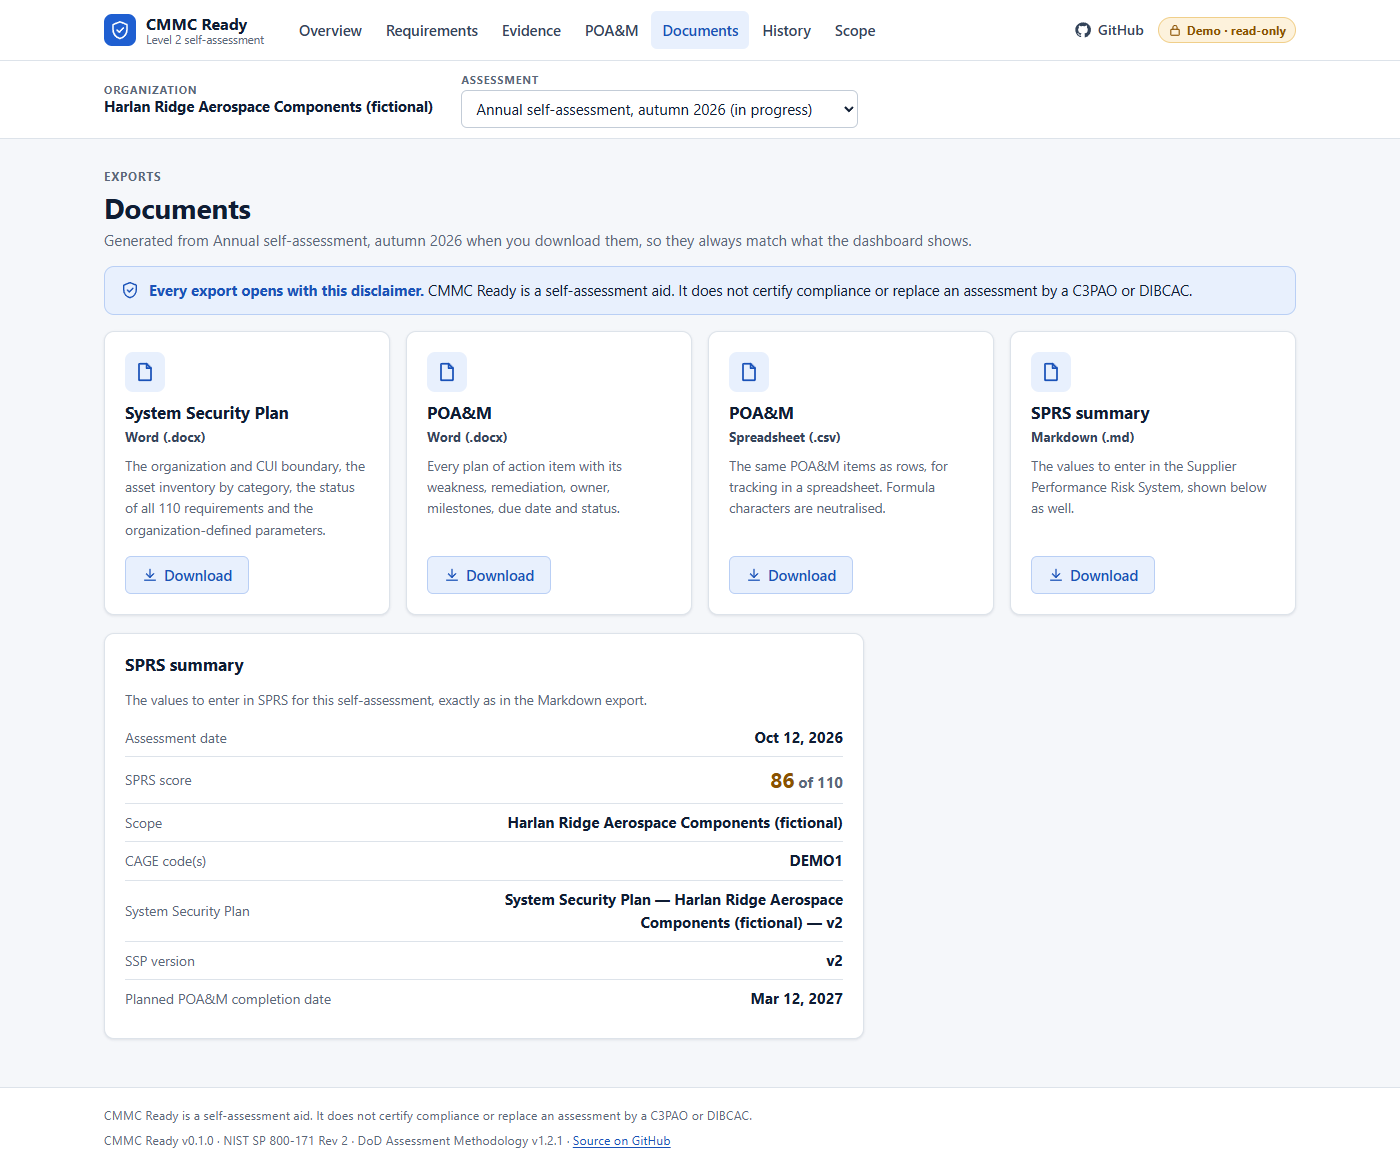
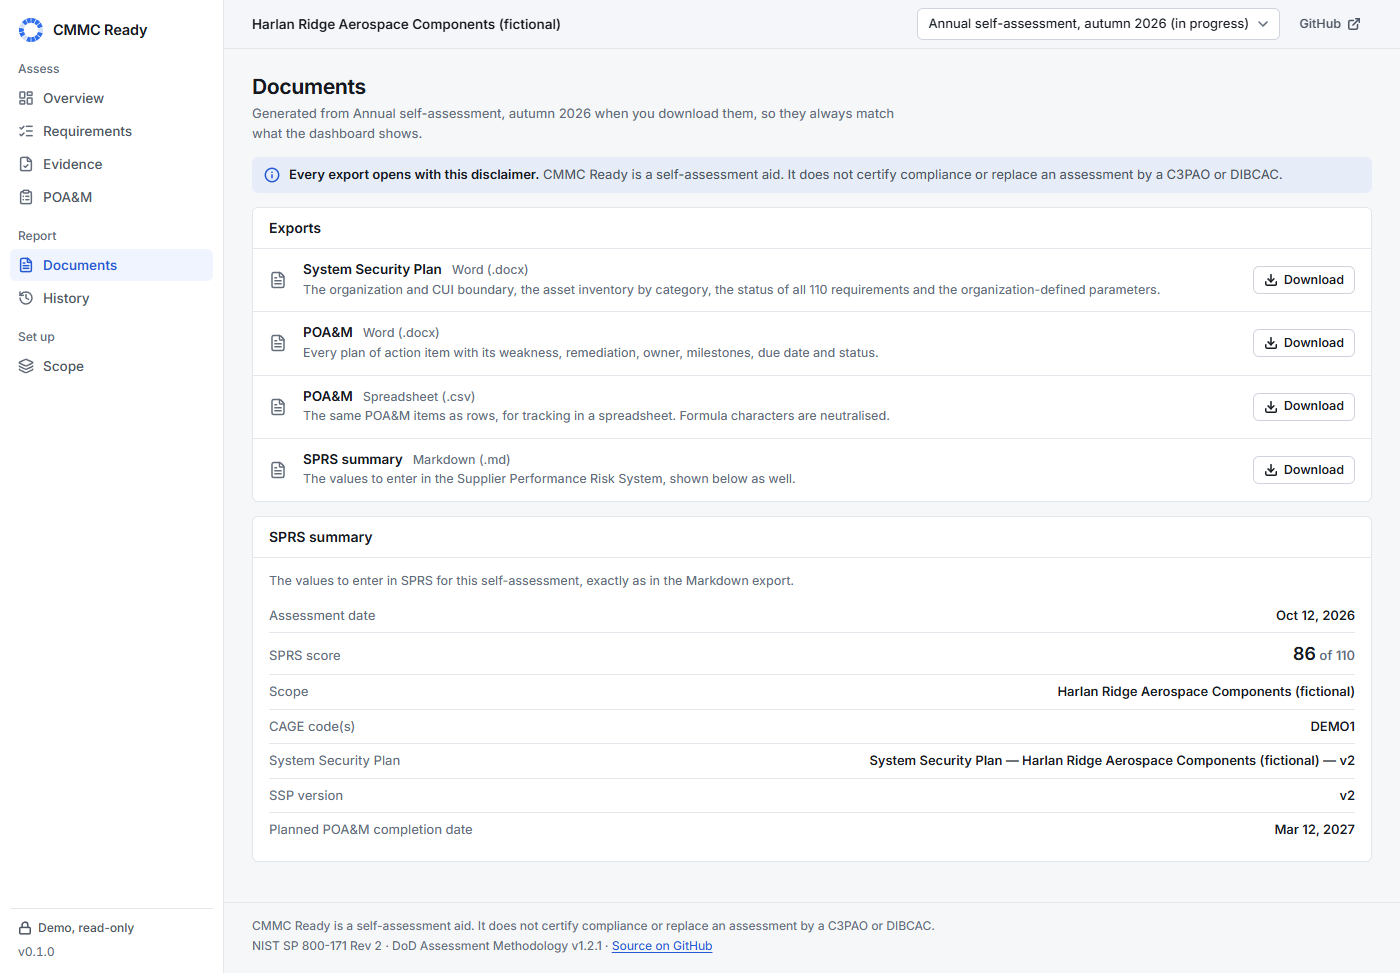
docs: retake the screenshots and describe the new interface

diff --git a/README.md b/README.md
@@ -128,7 +128,7 @@ npm install
 npm run dev
 ```
 
-Open <http://localhost:5173>. You browse the demo read-only as a guest; if you ran `create-admin`, choose **Sign in** (user `admin`) to answer objectives, upload evidence and edit POA&M items. API docs are at <http://localhost:8000/docs>.
+Open <http://localhost:5173>. You browse the demo read-only as a guest; if you ran `create-admin`, choose **Sign in as admin to edit** in the sidebar (user `admin`) to answer objectives, upload evidence and edit POA&M items. API docs are at <http://localhost:8000/docs>.
 
 `demo` loads the fictional company into its own database file, `backend/data/demo.db`, so it never touches your real data:
 
@@ -179,7 +179,7 @@ Each function instance builds its own SQLite database in `/tmp` from the demo fi
 1. In Vercel, choose **Add New → Project**, import the repository and keep the detected defaults (framework Vite, `npm run build`, output `dist`).
 2. Under **Settings → General → Node.js Version**, choose 20.x or 22.x (Vite 8 needs 20.19+ or 22.12+).
 3. Optional, for an admin login on the hosted copy: run `python -m cmmcready create-admin --print` locally and add `CMMCREADY_ADMIN_USER`, `CMMCREADY_ADMIN_PASSWORD_HASH` and `CMMCREADY_SECRET_KEY` as environment variables. Leave `CMMCREADY_COOKIE_SECURE` unset. Without them nobody can sign in, and the guest view works as normal.
-4. Deploy. The dashboard should load without a password and show "Demo · read-only".
+4. Deploy. The dashboard should load without a password and show "Demo, read-only" at the bottom of the sidebar.
 
 `api/index.py` sets the hosted defaults, each overridable in Vercel's settings: `CMMCREADY_DB=/tmp/cmmcready.db`, `CMMCREADY_DEMO=true`, `CMMCREADY_TRUST_PROXY=true` and `CMMCREADY_MAX_UPLOAD_MB=4` (Vercel caps request bodies at 4.5 MB).
 
@@ -211,7 +211,7 @@ flowchart LR
 | Storage | `backend/cmmcready/db.py` | SQLite in WAL mode; demo seeding is a single transaction under a write lock. |
 | API | `backend/cmmcready/api.py`, `auth.py`, `uploads.py` | Parameterised SQL, allow-listed filters, guest read-only enforcement, upload validation. |
 | Exports | `backend/cmmcready/exports.py` | python-docx documents; the disclaimer is the first paragraph of every export. |
-| Dashboard | `src/` | React 18, Vite and React Router, hand-drawn SVG charts, light and dark themes. |
+| Dashboard | `src/` | React 18, Vite and React Router. A flat, table-first interface with a fixed sidebar, a light theme (dark follows the system setting), Inter Variable bundled with the app, `lucide-react` icons and hand-drawn SVG charts. See [THIRD_PARTY.md](THIRD_PARTY.md). |
 | Demo data | `backend/data/demo_fixture.json` | Built deterministically by `backend/scripts/build_demo.py` (CI checks it is current). The company, people and notes are invented; the Windows hosts and the tenant are derived from the synthetic test fixtures. |
 
 ## Security
@@ -264,6 +264,6 @@ There are **401 tests: 369 backend (pytest) and 32 frontend (node:test)**. They 
 
 ## Licence
 
-The code is released under the [MIT License](LICENSE), Copyright (c) 2026 Andrew T. Price II.
+The code is released under the [MIT License](LICENSE), Copyright (c) 2026 Andrew T. Price II. The bundled Inter typeface (SIL Open Font License 1.1) and the `lucide-react` icons (ISC) are listed in [THIRD_PARTY.md](THIRD_PARTY.md).
 
 The NIST SP 800-171 Rev 2 and SP 800-171A text and the DoD Assessment Methodology values in `backend/data/nist_800_171r2.json` are works of the U.S. Government and are not subject to copyright in the United States. They are included with attribution: the file's `source` field cites each publication by title, version, URL and retrieval date. CMMC Ready is not affiliated with or endorsed by NIST or the Department of Defense.
